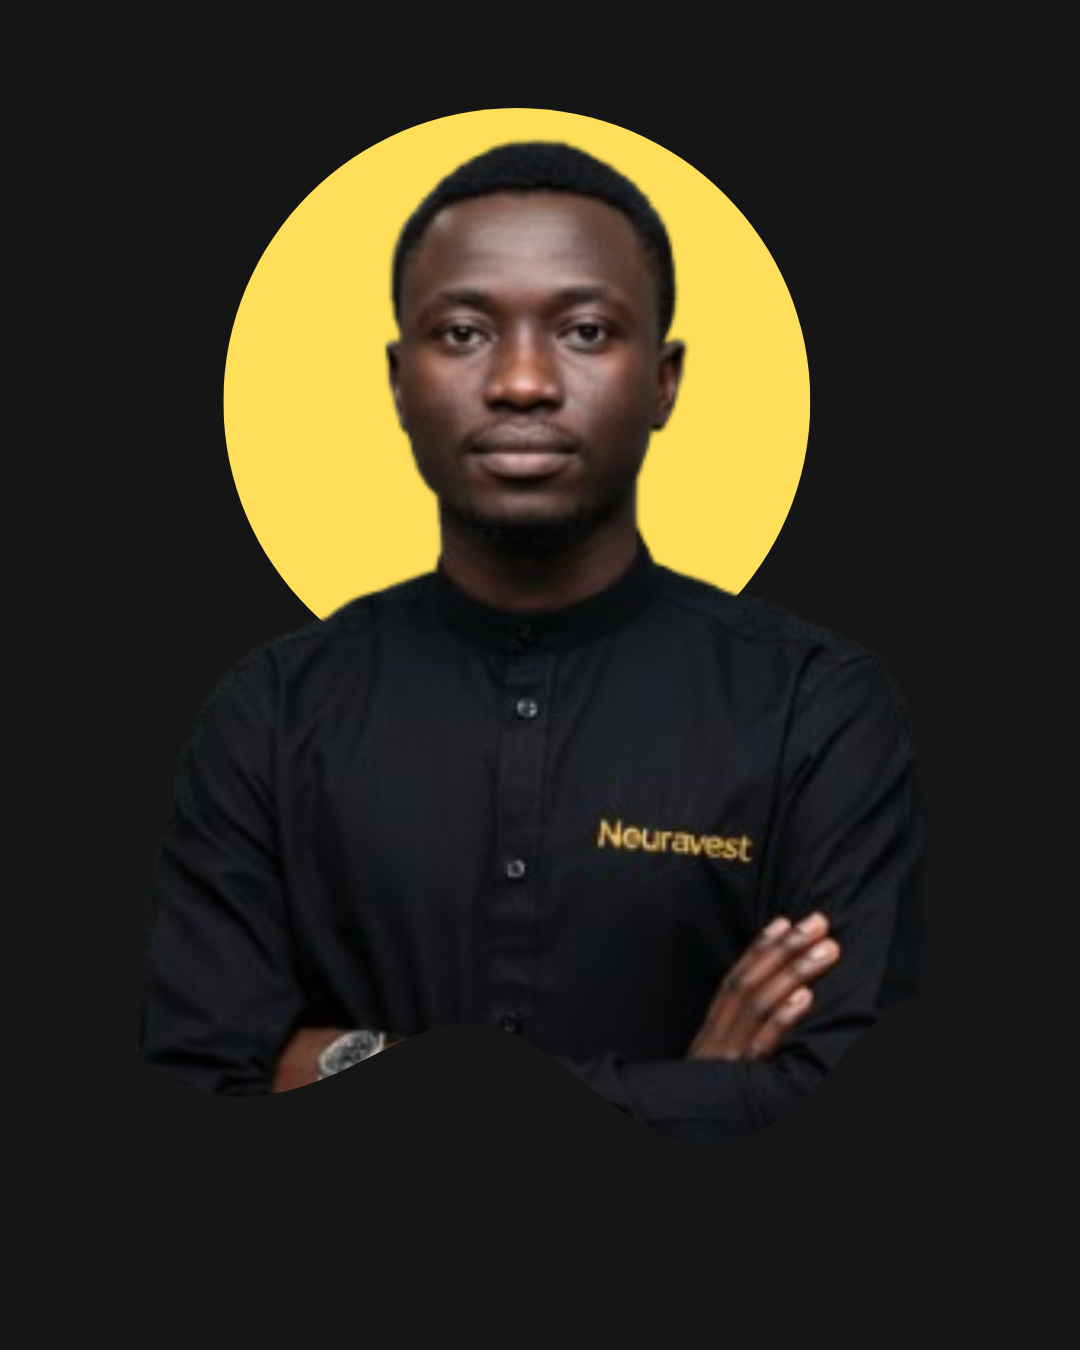
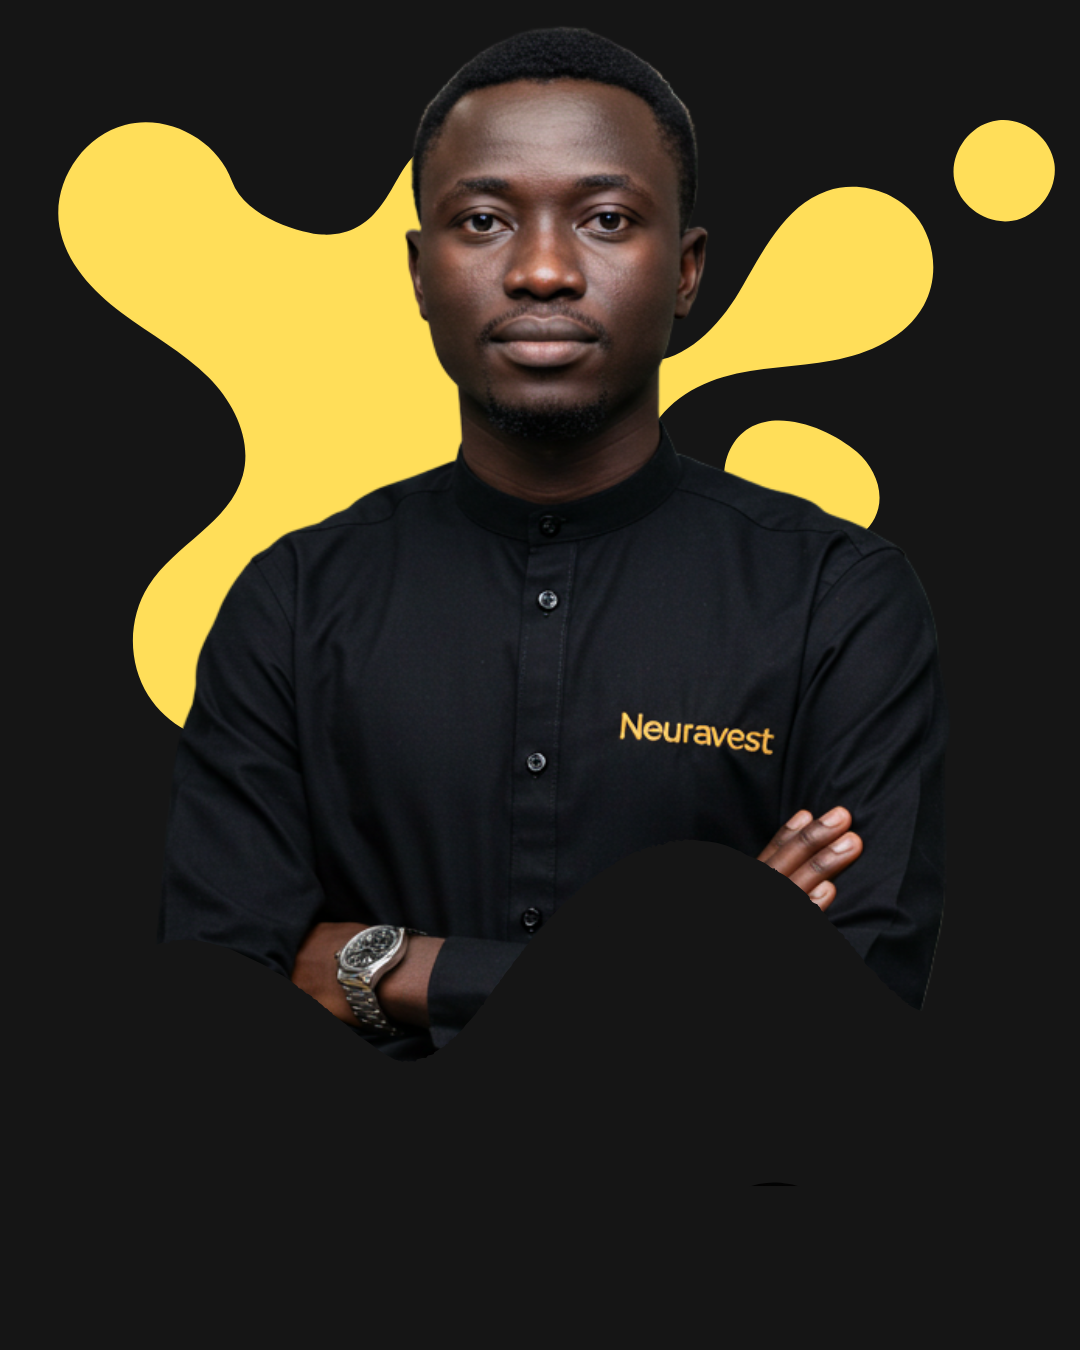
Adição das imagens HD

diff --git a/index.html b/index.html
@@ -82,7 +82,7 @@
                 </div>
             </div>
             <div>
-                <img src="assets/img/bg_hero.gif" alt="imagem principal da hero - uma mulher humanoide" srcset="" draggable="false">
+                <img src="assets/img/bg_herox.png" alt="imagem principal da hero - uma mulher humanoide" srcset="" draggable="false">
             </div>
         </section>
 
